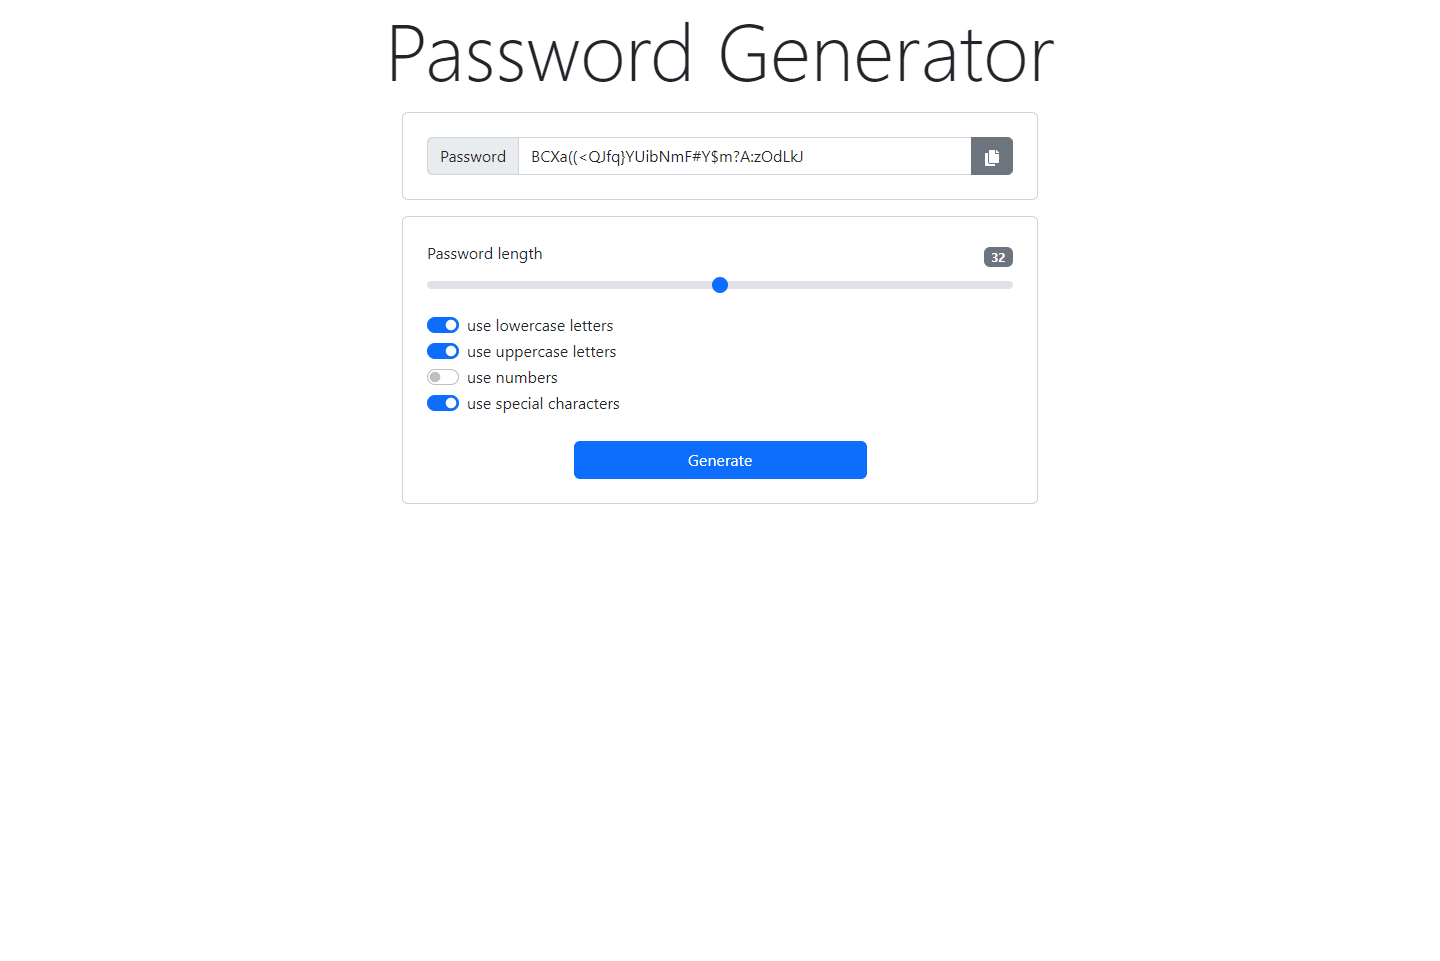
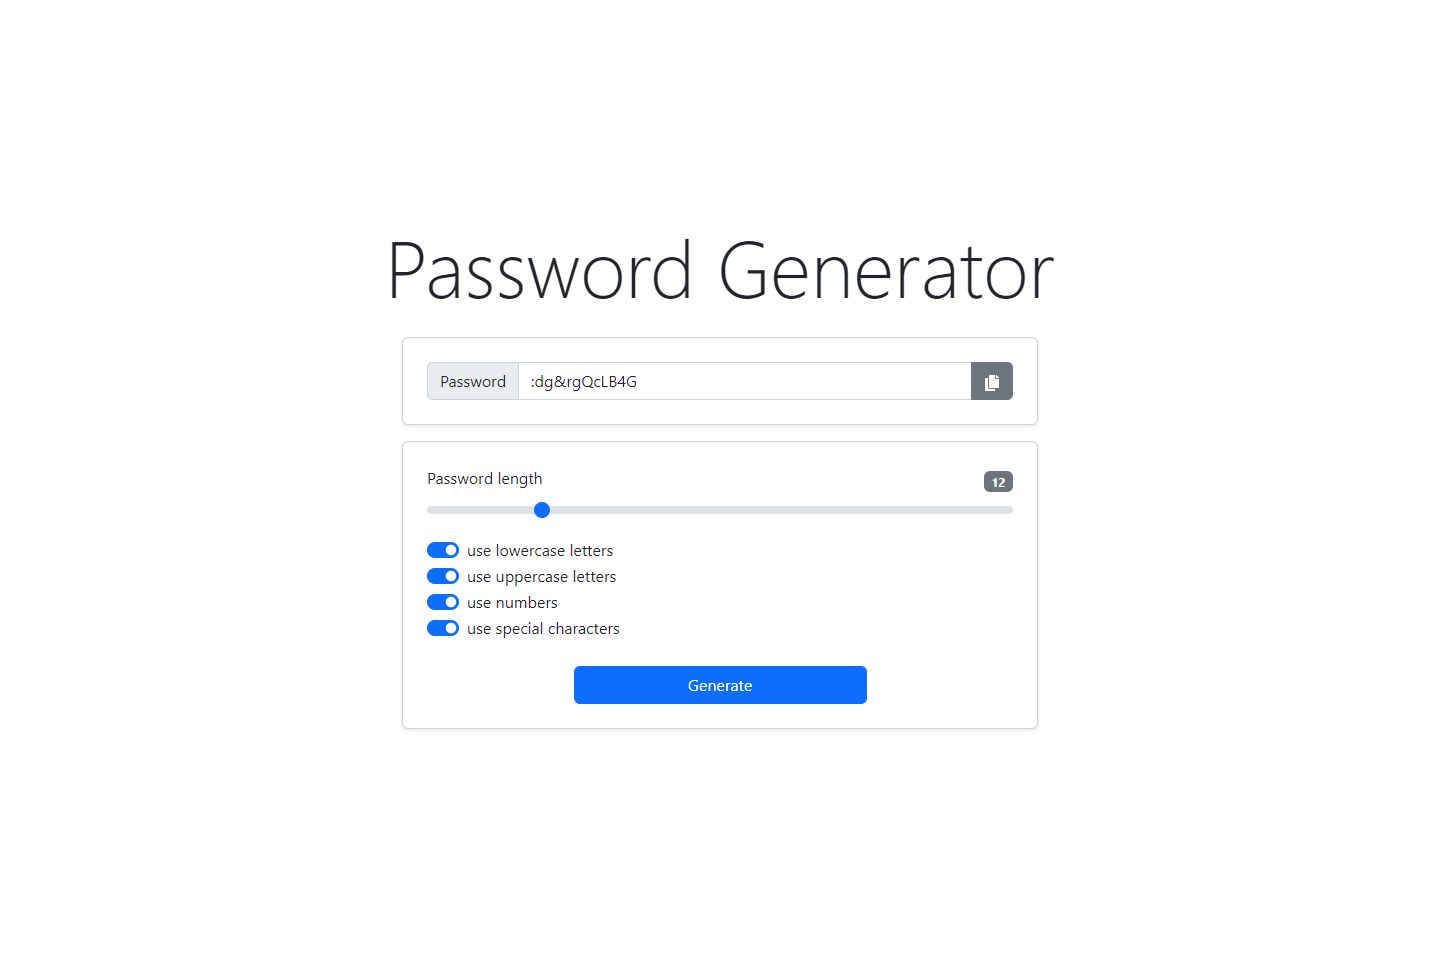
little design and new screenshots

diff --git a/src/App.tsx b/src/App.tsx
@@ -52,72 +52,74 @@ function App() {
   };
 
   return (
-    <div className="container">
-      <h1 className="display-1 text-center mb-3">Password Generator</h1>
+    <div className="min-vh-100 d-flex justify-content-center align-items-center">
       <div className="container">
-        <div className="row-1">
-          <Card>
-            <div className="input-group">
-              <span className="input-group-text">Password</span>
-              <input
-                type="text"
-                id="password"
-                className="form-control"
-                value={password}
-                readOnly
-              />
-              <button
-                className="btn btn-secondary"
-                aria-label="copy"
-                onClick={handleCopy}
-              >
-                <FaCopy />
-              </button>
-            </div>
-          </Card>
+        <h1 className="display-1 text-center mb-4">Password Generator</h1>
+        <div className="container">
+          <div className="row-1">
+            <Card>
+              <div className="input-group">
+                <span className="input-group-text">Password</span>
+                <input
+                  type="text"
+                  id="password"
+                  className="form-control"
+                  value={password}
+                  readOnly
+                />
+                <button
+                  className="btn btn-secondary"
+                  aria-label="copy"
+                  onClick={handleCopy}
+                >
+                  <FaCopy />
+                </button>
+              </div>
+            </Card>
 
-          <Card>
-            <Range
-              label="Password length"
-              id="password-len"
-              min={0}
-              max={64}
-              value={pwLen}
-              onChange={handleRange}
-            />
-            <div className="mb-4">
-              <Switch
-                label="use lowercase letters"
-                id="lowercase-ltrs"
-                value={useLowercase}
-                onChange={() => setUseLowercase((prev) => !prev)}
+            <Card>
+              <Range
+                label="Password length"
+                id="password-len"
+                min={0}
+                max={64}
+                value={pwLen}
+                onChange={handleRange}
               />
-              <Switch
-                label="use uppercase letters"
-                id="uppercase-ltrs"
-                value={useUppercase}
-                onChange={() => setUseUppercase((prev) => !prev)}
-              />
-              <Switch
-                label="use numbers"
-                id="use-numbers"
-                value={useNumbers}
-                onChange={() => setUseNumbers((prev) => !prev)}
-              />
-              <Switch
-                label="use special characters"
-                id="use-spl"
-                value={useSpl}
-                onChange={() => setUseSpl((prev) => !prev)}
-              />
-            </div>
-            <button
-              className="btn btn-primary w-50 mx-auto"
-              onClick={generatePassword}
-            >
-              Generate
-            </button>
-          </Card>
+              <div className="mb-4">
+                <Switch
+                  label="use lowercase letters"
+                  id="lowercase-ltrs"
+                  value={useLowercase}
+                  onChange={() => setUseLowercase((prev) => !prev)}
+                />
+                <Switch
+                  label="use uppercase letters"
+                  id="uppercase-ltrs"
+                  value={useUppercase}
+                  onChange={() => setUseUppercase((prev) => !prev)}
+                />
+                <Switch
+                  label="use numbers"
+                  id="use-numbers"
+                  value={useNumbers}
+                  onChange={() => setUseNumbers((prev) => !prev)}
+                />
+                <Switch
+                  label="use special characters"
+                  id="use-spl"
+                  value={useSpl}
+                  onChange={() => setUseSpl((prev) => !prev)}
+                />
+              </div>
+              <button
+                className="btn btn-primary w-50 mx-auto"
+                onClick={generatePassword}
+              >
+                Generate
+              </button>
+            </Card>
+          </div>
         </div>
       </div>
     </div>

diff --git a/src/components/Card.tsx b/src/components/Card.tsx
@@ -1,7 +1,11 @@
 import { PropsWithChildren } from "react";
 
 function Card({ children }: PropsWithChildren) {
-  return <div className="card col col-lg-6 mx-auto p-4 mb-3">{children}</div>;
+  return (
+    <div className="card col col-lg-6 mx-auto p-4 mb-3 shadow-sm">
+      {children}
+    </div>
+  );
 }
 
 export default Card;
